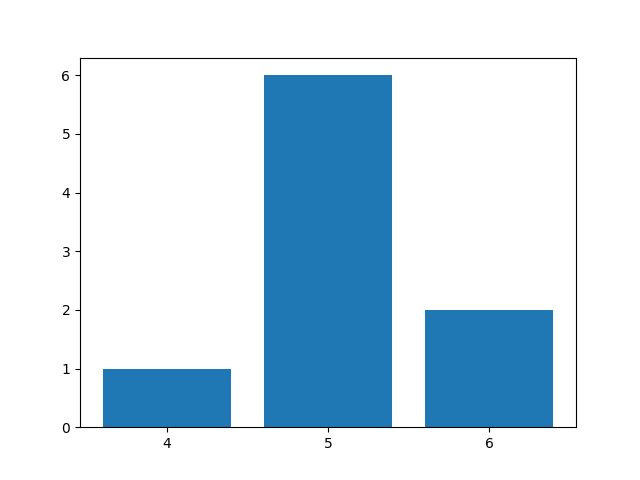
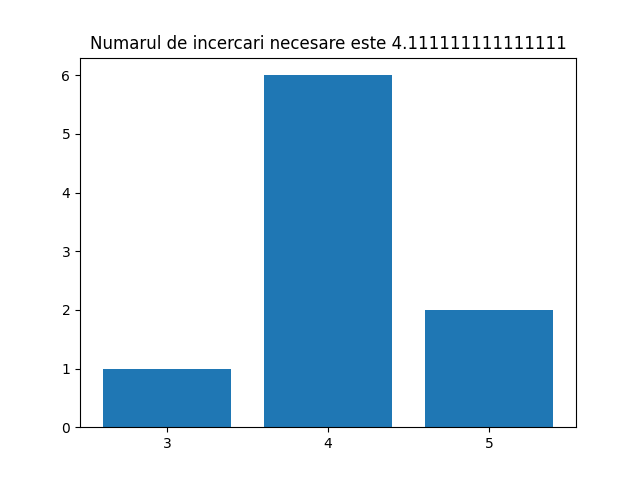
actualizare plot

diff --git a/wordle.py b/wordle.py
@@ -15,7 +15,7 @@ s = open("solutii.txt", "w")
 
 with open("cuvinte_low.txt", "r") as c:
     for cuv in c:
-        print(cuv)
+        #print(cuv)
         program2.reset()
 
         guess = ""
@@ -23,7 +23,7 @@ with open("cuvinte_low.txt", "r") as c:
             guess = k.readline()
         dicty = {}
         s.write(cuv +  ", ")
-        #s.write(f"{BG_BBLUE}{cuv}{RESET}" + ", ")
+        print(f"{BG_BBLUE}{cuv}{RESET}", end= "")
         with open("test.txt", "r") as l:
             data = l.read()
         dicty = ast.literal_eval(data)
@@ -41,7 +41,7 @@ with open("cuvinte_low.txt", "r") as c:
                     if guess[i] in cuv:
                         if cuv[i]==guess[i]:
                             s.write(cuv[i])
-                            # s.write(f"{BG_GREEN}{cuv[i]}{RESET}" + ", ")
+                            print(f"{BG_GREEN}{cuv[i]}{RESET}", end = "")
                             for x in dicty:
                                 if x!=cuv[i]:
                                     list = dicty[x]
@@ -49,13 +49,13 @@ with open("cuvinte_low.txt", "r") as c:
                                     dicty[x] = list
                         elif cuv[i]!=guess[i]:
                             s.write(guess[i])
-                            #s.write(f"{BG_YELLOW}{guess[i]}{RESET}" + ", ")
+                            print(f"{BG_YELLOW}{guess[i]}{RESET}", end= "")
                             list = dicty[guess[i]]
                             list[i] = 0
                             dicty[guess[i]] = list
                     elif guess[i] not in cuv:
                         s.write(guess[i])
-                        #s.write(f"{BG_RED}{guess[i]}{RESET}" + ", ")
+                        print(f"{BG_RED}{guess[i]}{RESET}", end ="")
                         for x in dicty:
                             if x == guess[i]:
                                 list = dicty[x]
@@ -72,15 +72,19 @@ with open("cuvinte_low.txt", "r") as c:
                 if ok2 == 1:
                     ok = 1
                 s.write(", ")
+                print(end=", ")
+            nr_incercari = nr_incercari - 1
             s.write(str(nr_incercari))
             if nr_incercari in plotvalues:
                 plotvalues[nr_incercari] += 1
             else:
                 plotvalues.update({nr_incercari: 1})
         s.write("\n")
+        print("\n")
 s.close()
 nrghiciri = []
 nrcuvinte = []
+mean = 0
 #print(plotvalues)
 newplotvalues = collections.OrderedDict(sorted(plotvalues.items()))
 plotvalues = newplotvalues
@@ -89,5 +93,9 @@ for key in plotvalues.keys():
     #print(key)
     nrghiciri.append(key)
     nrcuvinte.append(plotvalues[key])
+for i in range(len(nrghiciri)):
+    mean = mean + nrghiciri[i] * nrcuvinte[i]
+mean = mean / sum(nrcuvinte)
 plt.bar(range(len(plotvalues)), nrcuvinte, tick_label = nrghiciri)
+plt.title(f"Numarul de incercari necesare este {mean}")
 plt.show()
